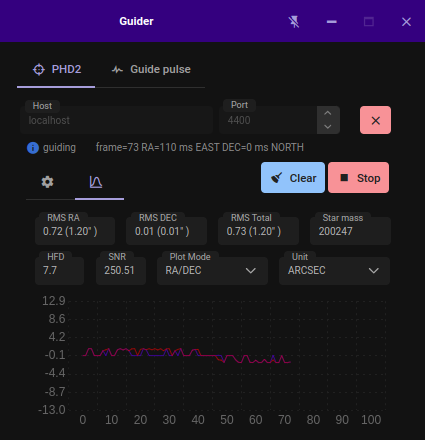
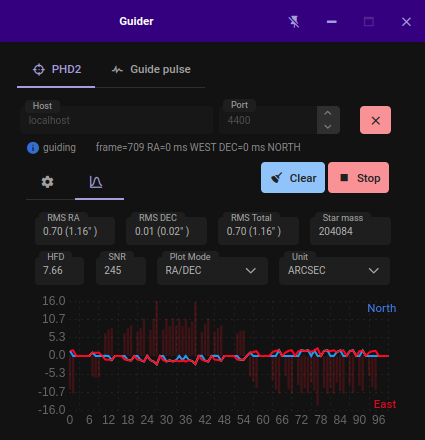
[desktop]: Fix PHD2 bar chart

diff --git a/desktop/src/app/guider/guider.component.ts b/desktop/src/app/guider/guider.component.ts
@@ -42,6 +42,7 @@ export class GuiderComponent implements AfterViewInit, OnDestroy {
     phdSettleTime = 10
     phdSettleTimeout = 30
     readonly phdGuideHistory: HistoryStep[] = []
+    private phdDurationScale = 1.0
 
     phdPixelScale = 1.0
     phdRmsRA = 0.0
@@ -69,13 +70,14 @@ export class GuiderComponent implements AfterViewInit, OnDestroy {
     }
 
     readonly phdChartData: ChartData = {
+        labels: Array.from({ length: 100 }, (_, i) => `${i}`),
         datasets: [
             // RA.
             {
                 type: 'line',
                 fill: false,
-                borderColor: 'red',
-                borderWidth: 0.5,
+                borderColor: '#F44336',
+                borderWidth: 2,
                 data: [],
                 pointRadius: 0,
                 pointHitRadius: 0,
@@ -84,8 +86,8 @@ export class GuiderComponent implements AfterViewInit, OnDestroy {
             {
                 type: 'line',
                 fill: false,
-                borderColor: 'blue',
-                borderWidth: 0.5,
+                borderColor: '#03A9F4',
+                borderWidth: 2,
                 data: [],
                 pointRadius: 0,
                 pointHitRadius: 0,
@@ -93,13 +95,13 @@ export class GuiderComponent implements AfterViewInit, OnDestroy {
             // RA.
             {
                 type: 'bar',
-                backgroundColor: 'green',
+                backgroundColor: '#F4433630',
                 data: [],
             },
             // DEC.
             {
                 type: 'bar',
-                backgroundColor: 'green',
+                backgroundColor: '#03A9F430',
                 data: [],
             },
         ]
@@ -107,8 +109,6 @@ export class GuiderComponent implements AfterViewInit, OnDestroy {
 
     readonly phdChartOptions: ChartOptions = {
         responsive: true,
-        aspectRatio: 1.8,
-        maintainAspectRatio: false,
         plugins: {
             legend: {
                 display: false,
@@ -116,12 +116,24 @@ export class GuiderComponent implements AfterViewInit, OnDestroy {
             tooltip: {
                 displayColors: false,
                 intersect: false,
+                filter: (item) => {
+                    return Math.abs(item.parsed.y) - 0.01 > 0.0
+                },
                 callbacks: {
                     title: () => {
                         return ''
                     },
                     label: (context) => {
-                        return context.parsed.y.toFixed(2)
+                        console.log(context)
+                        const barType = context.dataset.type === 'bar'
+                        const raType = context.datasetIndex === 0 || context.datasetIndex === 2
+                        const scale = barType ? this.phdDurationScale : 1.0
+                        const y = context.parsed.y * scale
+                        const prefix = raType ? 'RA: ' : 'DEC: '
+                        const barSuffix = ' ms'
+                        const lineSuffix = this.yAxisUnit === 'ARCSEC' ? '"' : 'px'
+                        const formattedY = prefix + (barType ? y.toFixed(0) + barSuffix : y.toFixed(2) + lineSuffix)
+                        return formattedY
                     }
                 }
             },
@@ -156,8 +168,8 @@ export class GuiderComponent implements AfterViewInit, OnDestroy {
             y: {
                 stacked: true,
                 beginAtZero: false,
-                suggestedMin: -16,
-                suggestedMax: 16,
+                min: -16,
+                max: 16,
                 ticks: {
                     autoSkip: false,
                     count: 7,
@@ -178,7 +190,6 @@ export class GuiderComponent implements AfterViewInit, OnDestroy {
             },
             x: {
                 stacked: true,
-                type: 'linear',
                 min: 0,
                 max: 100,
                 border: {
@@ -333,26 +344,28 @@ export class GuiderComponent implements AfterViewInit, OnDestroy {
             maxDuration = Math.max(maxDuration, Math.abs(step.guideStep!.decDuration))
         }
 
-        const durationScale = maxDuration / 16.0
+        this.phdDurationScale = maxDuration / 16.0
 
         if (this.plotMode === 'RA/DEC') {
             this.phdChartData.datasets[0].data = guideSteps
-                .map(e => [e.id - startId, e.guideStep!.raDistance * scale])
+                .map(e => [e.id - startId, -e.guideStep!.raDistance * scale])
             this.phdChartData.datasets[1].data = guideSteps
                 .map(e => [e.id - startId, e.guideStep!.decDistance * scale])
         } else {
             this.phdChartData.datasets[0].data = guideSteps
-                .map(e => [e.id - startId, e.guideStep!.dx * scale])
+                .map(e => [e.id - startId, -e.guideStep!.dx * scale])
             this.phdChartData.datasets[1].data = guideSteps
                 .map(e => [e.id - startId, e.guideStep!.dy * scale])
         }
 
+        const durationScale = (direction?: GuideDirection) => {
+            return !direction || direction === 'NORTH' || direction === 'WEST' ? this.phdDurationScale : -this.phdDurationScale
+        }
+
         this.phdChartData.datasets[2].data = this.phdGuideHistory
-            // .map(e => (e.guideStep?.raDuration ?? 0) / durationScale)
-            .map(e => 12)
+            .map(e => (e.guideStep?.raDuration ?? 0) / durationScale(e.guideStep?.raDirection))
         this.phdChartData.datasets[3].data = this.phdGuideHistory
-            // .map(e => (e.guideStep?.decDuration ?? 0) / durationScale)
-            .map(e => 8)
+            .map(e => (e.guideStep?.decDuration ?? 0) / durationScale(e.guideStep?.decDirection))
 
         this.phdChart?.refresh()
     }

diff --git a/desktop/src/app/guider/guider.component.html b/desktop/src/app/guider/guider.component.html
@@ -127,11 +127,13 @@
                                 </span>
                             </div>
                         </div>
-                        <div class="grid">
+                        <div class="grid relative">
                             <div class="col-12">
                                 <p-chart #phdChart width="100%" height="140px" [data]="phdChartData" [responsive]="true"
                                          [options]="phdChartOptions" />
                             </div>
+                            <span class="absolute right-0 text-blue-500" style="top: 16px;">North</span>
+                            <span class="absolute right-0 text-red-500" style="bottom: 26px;">East</span>
                         </div>
                     </p-tabPanel>
                     <div class="grid mt-1 absolute" style="top: -12px; right: 10px">

diff --git a/desktop/src/app/atlas/atlas.component.ts b/desktop/src/app/atlas/atlas.component.ts
@@ -345,8 +345,6 @@ export class AtlasComponent implements OnInit, AfterContentInit, OnDestroy {
 
     readonly altitudeOptions: ChartOptions = {
         responsive: true,
-        aspectRatio: 1.8,
-        maintainAspectRatio: false,
         plugins: {
             legend: {
                 display: false,
@@ -406,8 +404,8 @@ export class AtlasComponent implements OnInit, AfterContentInit, OnDestroy {
         scales: {
             y: {
                 beginAtZero: true,
-                suggestedMin: 0,
-                suggestedMax: 90,
+                min: 0,
+                max: 90,
                 ticks: {
                     autoSkip: false,
                     count: 10,
